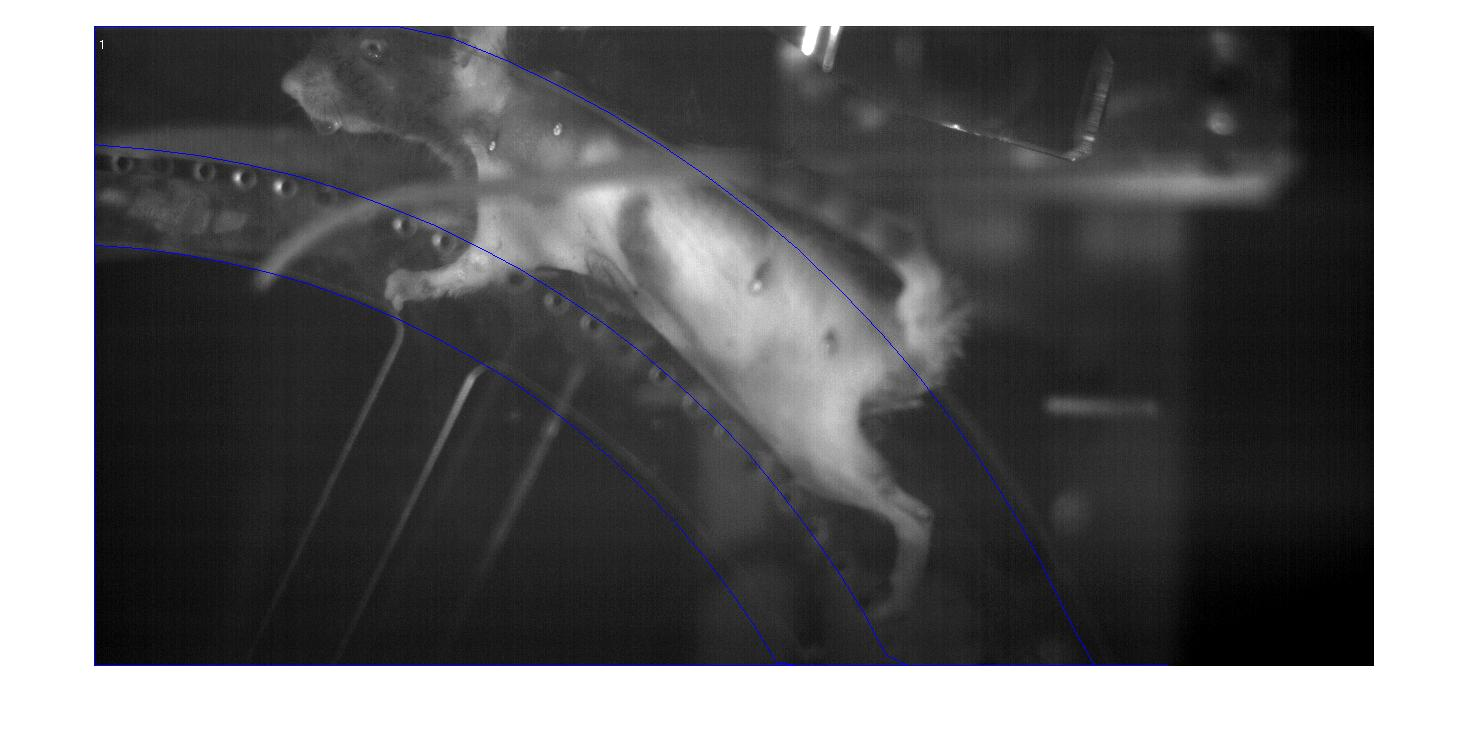
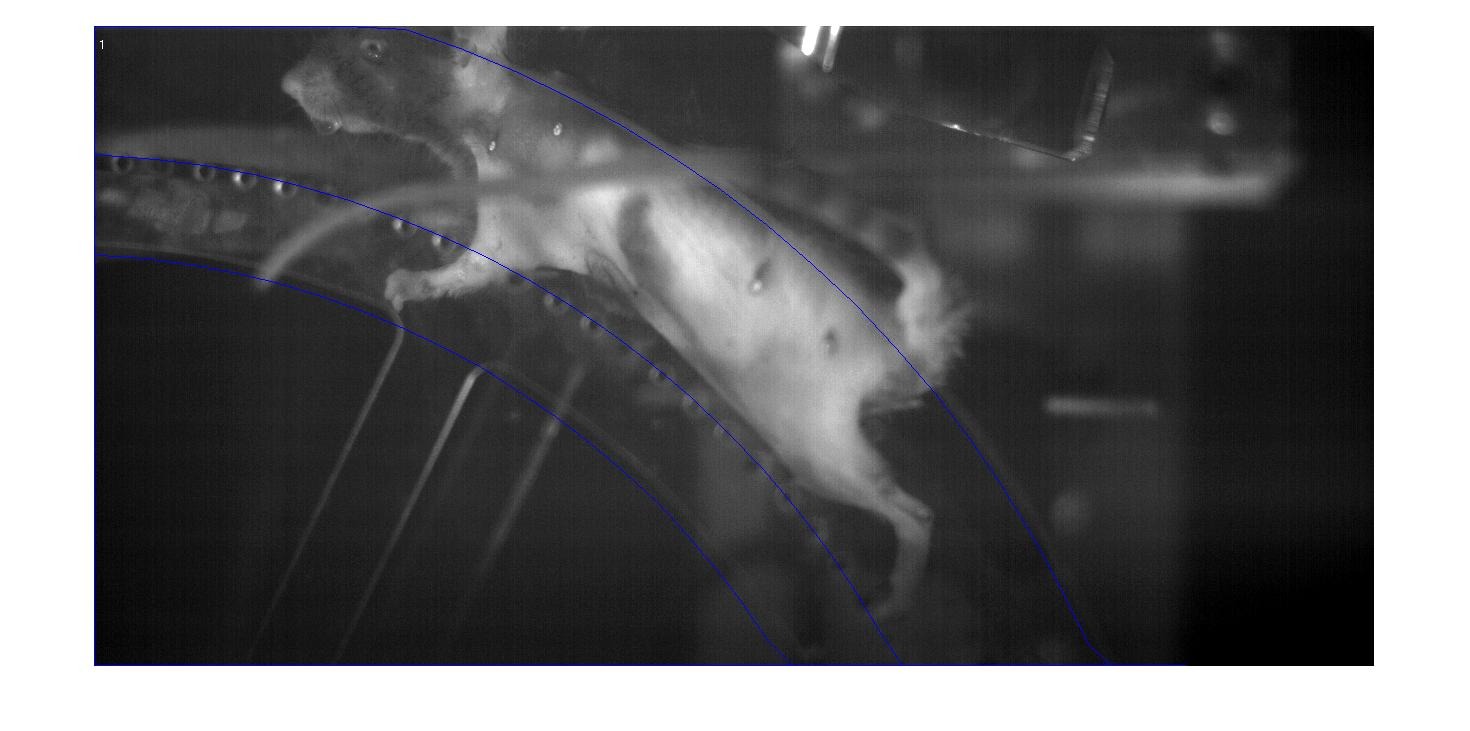
wheel extraction works much more better
ToDo use mmread for reading frame from videos
     talk with bjoern

diff --git a/HCI/Project_Wheel/wheel_detection.m b/HCI/Project_Wheel/wheel_detection.m
@@ -5,14 +5,14 @@ addpath(genpath('./opticalflow'));
 % path = '/export/home/etikhonc/Documents/Work/Videos/Wheel/Maus 4 Cal/4 weeks 0p.o/Naehe Network 1 old/';
 % fileName = 'Trial_201411122034231.avi';
 
-path = '/export/home/etikhonc/Documents/Work/Videos/Wheel/Maus 1 Cal/Maus 1 Cal 5d p.o/20.10.2014 Maus 1 Cal 5d p.o. Network 1 old/';
-fileName = 'Trial_20141020191115117.avi';
+% path = '/export/home/etikhonc/Documents/Work/Videos/Wheel/Maus 1 Cal/Maus 1 Cal 5d p.o/20.10.2014 Maus 1 Cal 5d p.o. Network 1 old/';
+% fileName = 'Trial_20141020191115117.avi';
 
 % path = '/export/home/etikhonc/Documents/Work/Videos/Wheel/Maus 1 Cal/Maus 1 Cal 4 weeks p.o. Network 1 imaging 11.11.2014/Network 3';
 % fileName = 'Trial_201411111614571.avi';
 
-% path = '/export/home/etikhonc/Documents/Work/Videos/Wheel/Maus 5 Cal/4 weeks p.o/Network 3 21.10.2014/';
-% fileName = 'Trial_2014102103300061.avi';
+path = '/export/home/etikhonc/Documents/Work/Videos/Wheel/Maus 5 Cal/4 weeks p.o/Network 3 21.10.2014/';
+fileName = 'Trial_2014102103300061.avi';
 
 
 %% Section 1; read frames from video
@@ -58,7 +58,7 @@ img = inframe(:,:,:,1);
 M = sqrt(dIx.^2 + dIy.^2);
 
 tM = M;
-tM(tM<300) = 0;
+tM(tM<400) = 0;
 
 tM2 = tM;
 % tM2 = medfilt2(tM, [5, 5]);
@@ -69,26 +69,39 @@ img2 = tM2;
 figure, imshow(img2);
 
 %%
+img2 = tM2;
 
 img2 = bwmorph(img2,'clean',Inf);
-
 img2 = bwmorph(img2,'open',Inf);
 img2 = bwmorph(img2,'close',Inf);
+
+F5 = ones(5);
+% F5(2:4,2:4) = 1;
+img2 = imdilate(img2, F5);
 
 figure, imshow(img2);
 
 %%
-% labels = bwlabel(img2, 4);
-% 
-% labels_unique = unique(labels);
-% 
-% % for l=1:numel(labels_unique)
-% %    component_l = (labels== l);
-% %    figure, imshow(component_l);
-% %     
-% % end
+labels = bwlabel(img2, 4);
 
+labels_unique = unique(labels);
+nlabels = numel(labels_unique);
 
+component_numel = zeros(nlabels,1);
+for l=1:nlabels
+   component_l = (labels== l);
+   
+   component_numel(l) = sum(component_l(:));    
+end
+
+[~, label_max_cc] = max (component_numel);
+
+max_cc = (labels== label_max_cc);
+
+img3 = max_cc;
+figure, imshow(img3);
+
+img2 = img3;
 
 %% search for the small circles (rods)
 % [m,n] = size(img2);
@@ -120,13 +133,13 @@ figure, imshow(img2);
 % Rmin = round(3*n/4);
 % Rmax = round(3*n/4);
 
-Rmin = round(3*n/4)-25;
-Rmax = round(3*n/4);
+Rmin = round(3*n/4)-10;
+Rmax = round(3*n/4)+10;
 
-cy_range = [round(6*m/4), round(7*m/4)];  % [1 m]
-cx_range = [-round(n/3) 0]; % [1 n]
+cy_range = [round(5*m/4), round(8*m/4)];  % [1 m]
+cx_range = [-round(n/3), round(3*n/4)]; % [1 n]
 
-list_of_circles2 = circles_hough_polar(img2, cy_range, cx_range, [Rmin Rmax],10);
+list_of_circles2 = circles_hough_polar(img2, cy_range, cx_range, [Rmin Rmax],5);
 [x,y] = get_circle_points(img2, list_of_circles2);
 
 figure 

diff --git a/HCI/Project_Wheel/wheel_detection1.m b/HCI/Project_Wheel/wheel_detection1.m
@@ -2,11 +2,11 @@
 addpath(genpath('./Circle_Hough_Transformation'));
 addpath(genpath('./opticalflow'));
 
-% path = '/export/home/etikhonc/Documents/Work/Videos/Wheel/Maus 4 Cal/4 weeks 0p.o/Naehe Network 1 old/';
-% fileName = 'Trial_201411122034231.avi';
+path = '/export/home/etikhonc/Documents/Work/Videos/Wheel/Maus 4 Cal/4 weeks 0p.o/Naehe Network 1 old/';
+fileName = 'Trial_201411122034231.avi';
 
-path = '/export/home/etikhonc/Documents/Work/Videos/Wheel/Maus 1 Cal/Maus 1 Cal 5d p.o/20.10.2014 Maus 1 Cal 5d p.o. Network 1 old/';
-fileName = 'Trial_20141020191115117.avi';
+% path = '/export/home/etikhonc/Documents/Work/Videos/Wheel/Maus 1 Cal/Maus 1 Cal 5d p.o/20.10.2014 Maus 1 Cal 5d p.o. Network 1 old/';
+% fileName = 'Trial_20141020191115117.avi';
 
 % path = '/export/home/etikhonc/Documents/Work/Videos/Wheel/Maus 1 Cal/Maus 1 Cal 4 weeks p.o. Network 1 imaging 11.11.2014/Network 3';
 % fileName = 'Trial_201411111614571.avi';
@@ -76,6 +76,7 @@ img2 = bwmorph(img2,'open',Inf);
 
 img2 = bwmorph(img2,'close',Inf);
 
+
 figure, imshow(img2);
 
 %%
@@ -124,10 +125,10 @@ figure, imshow(img2);
 Rmin = round(3*n/4)-25;
 Rmax = round(3*n/4);
 
-cy_range = [round(6*m/4), round(8*m/4)];  % [1 m]
-cx_range = [-round(n/3) round(n/4)]; % [1 n]
+cy_range = [round(6*m/4), round(7*m/4)];  % [1 m]
+cx_range = [-round(n/3) 0]; % [1 n]
 
-list_of_circles2 = circles_hough_polar(img2, cy_range, cx_range, [Rmin Rmax],5);
+list_of_circles2 = circles_hough_polar(img2, cy_range, cx_range, [Rmin Rmax],10);
 [x,y] = get_circle_points(img2, list_of_circles2);
 
 figure 
@@ -140,7 +141,7 @@ hold off;
 
 middle = mean(list_of_circles2);
 up = middle; up(3) = up(3) + 180;
-down = middle; down(3) = down(3) - 90;
+down = middle; down(3) = down(3) - 100;
 
 list = [down; middle; up];
 [x,y] = get_circle_points(img2, list);
